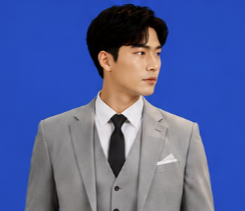
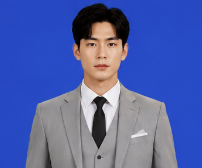
Add files via upload

diff --git a/server.js b/server.js
@@ -4,6 +4,7 @@ const path = require('path');
 const fs = require('fs');
 const cors = require('cors');
 const axios = require('axios');
+const mongoose = require('mongoose'); // Thêm thư viện kết nối Database
 
 const app = express();
 const PORT = process.env.PORT || 3000;
@@ -14,6 +15,20 @@ app.use(express.static(__dirname));
 
 if (!fs.existsSync('uploads')) fs.mkdirSync('uploads');
 const upload = multer({ dest: 'uploads/' });
+
+// 1. KẾT NỐI DATABASE MONGO DB ATLAS CỦA TIẾN
+const MONGO_URI = "mongodb+srv://tienbuicong586_db_user:WVsSnsObWtGxRPZ4@cluster0.vf5dq6j.mongodb.net/?appName=Cluster0"; 
+mongoose.connect(MONGO_URI)
+  .then(() => console.log("👉 Đã kết nối thành công tới Database đám mây!"))
+  .catch(err => console.error("❌ Lỗi kết nối Database:", err));
+
+// Định nghĩa cấu trúc bảng lưu lượt dùng theo IP
+const UserUsageSchema = new mongoose.Schema({
+    ip: String,
+    count: { type: Number, default: 0 },
+    lastUsed: { type: Date, default: Date.now }
+});
+const UserUsage = mongoose.model('UserUsage', UserUsageSchema);
 
 const AI_API_URL = 'https://api.piapi.ai/api/v1/task';
 const AI_API_KEY = process.env.PIAPI_KEY || 'app-QY3gKj7bYidbCgRkZ0P2q7vW';
@@ -26,11 +41,43 @@ const imageToBase64 = (filePath) => {
 
 const sleep = (ms) => new Promise(resolve => setTimeout(resolve, ms));
 
+// Hàm lấy IP thật của người dùng khi chạy trên Render
+function getClientIp(req) {
+    return req.headers['x-forwarded-for'] || req.socket.remoteAddress;
+}
+
+// 2. API XỬ LÝ GHÉP MẶT (ĐÃ THÊM TÍNH NĂNG ĐẾM LƯỢT CHỐNG SPAM)
 app.post('/api/swap-face', upload.single('swap_image'), async (req, res) => {
     let userImagePath = req.file ? req.file.path : null;
+    const userIp = getClientIp(req);
     
     try {
         if (!userImagePath) return res.json({ success: false, error: "Thiếu ảnh!" });
+
+        // --- ĐOẠN KIỂM TRA GIỚI HẠN LƯỢT DÙNG ---
+        let userRecord = await UserUsage.findOne({ ip: userIp });
+        const today = new Date().toDateString();
+
+        if (userRecord) {
+            // Nếu chuyển sang ngày mới thì reset số lượt về 0
+            if (new Date(userRecord.lastUsed).toDateString() !== today) {
+                userRecord.count = 0;
+            }
+            
+            // Nếu đã dùng quá 3 lần trong ngày thì chặn ngay, xóa ảnh tạm để tránh rác server
+            if (userRecord.count >= 3) {
+                if (userImagePath && fs.existsSync(userImagePath)) fs.unlinkSync(userImagePath);
+                return res.status(429).json({ 
+                    success: false, 
+                    error: "Bạn đã hết 3 lượt thử miễn phí hôm nay! Vui lòng quay lại vào ngày mai." 
+                });
+            }
+        } else {
+            // Nếu IP này lần đầu tiên truy cập web
+            userRecord = new UserUsage({ ip: userIp });
+        }
+        // ----------------------------------------
+
         const vest = req.body.vest_type || 'vest-den';
         const templatePath = path.join(__dirname, `${vest}.png`);
 
@@ -68,6 +115,12 @@ app.post('/api/swap-face', upload.single('swap_image'), async (req, res) => {
         // Xóa ảnh gốc của user ngay sau khi xử lý xong để giải phóng dung lượng
         if (userImagePath && fs.existsSync(userImagePath)) fs.unlinkSync(userImagePath);
         if (!aiImageUrl) throw new Error("Quá thời gian chờ.");
+
+        // --- CỘNG THÊM 1 LƯỢT DÙNG VÀO DATABASE NẾU THÀNH CÔNG ---
+        userRecord.count += 1;
+        userRecord.lastUsed = new Date();
+        await userRecord.save();
+        // --------------------------------------------------------
 
         // Trả link trực tiếp cho trình duyệt
         res.json({ success: true, imageUrl: aiImageUrl });
